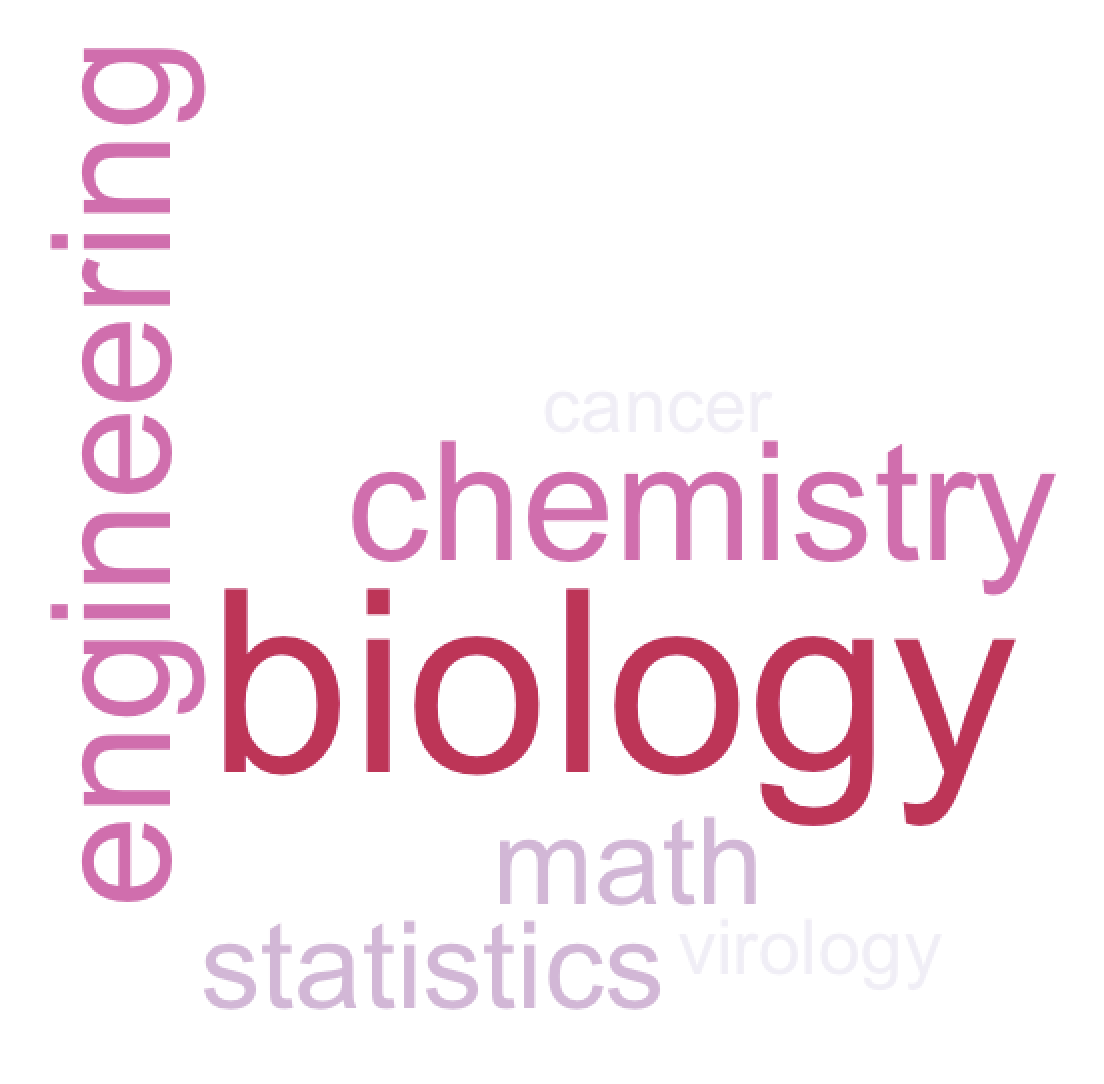
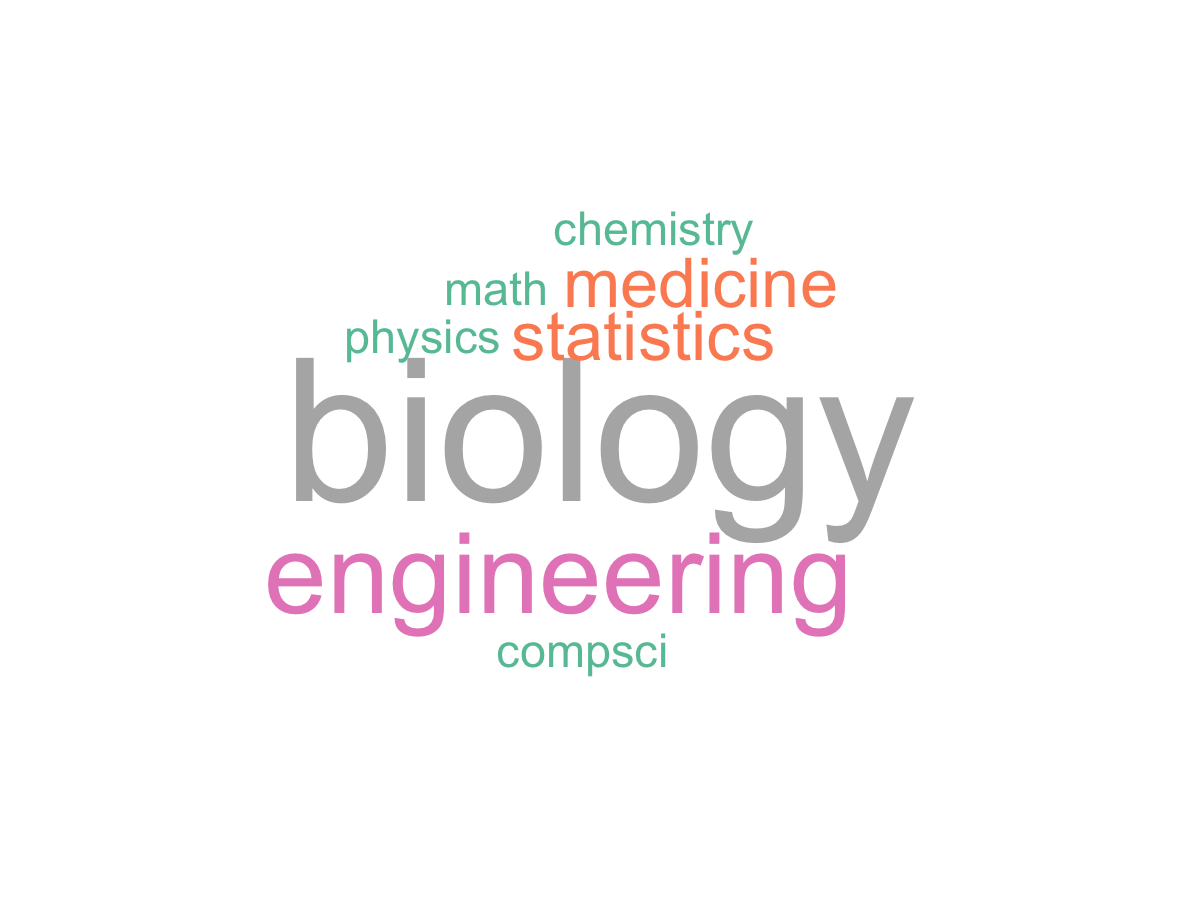
wordcloud code for el zoominario

Changed region(s): [[0.0308, 0.0311, 0.9547, 0.84], [0.1848, 0.7467, 0.7083, 0.9333]]

diff --git a/pages/zoominario.md b/pages/zoominario.md
@@ -8,24 +8,23 @@ description: El Zoominario
 It is a seminar series of scientific short talks (in English) given by Latinx in STEM. The goal is to increase visibility of Latinx people in STEM and inspire the next generation of Latinx scientists. The talks are meant to be accessible to the general audience.
 
 **What is the format of the talks?**
-The talks are 15-20 minutes long of a scientific topic explained in accessible terms to a broad audience. At the end of the talk, the speaker chooses to share interesting facts about their Latinx culture
+The talks are 15-20 minutes long of a scientific topic explained in accessible terms to a broad audience. At the end of the talk, the speaker chooses to share interesting facts about their Latinx culture.
 
 **How can I watch?**
-Currently, live attendance is restricted to people at UW-Madison and close collaborators. Anybody can watch the recorded talks in the [youtube channel](https://www.youtube.com/playlist?list=PL1AfUDnwvYbOA9rfrvyA2nR9SR0VYbklx)
+Currently, live attendance is restricted to people at UW-Madison and close collaborators. Anybody can watch the recorded talks in the [youtube channel](https://www.youtube.com/playlist?list=PL1AfUDnwvYbOA9rfrvyA2nR9SR0VYbklx).
 
 **I am at UW-Madison, how can I watch the talks live?**
-You need to join the UW google group "el-zoominario" (or email me) to be added to the mailing list. Emails to the group will contain login information
+You need to join the UW google group "el-zoominario" (or email me) to be added to the mailing list. Emails to the group will contain login information.
 
 **Why are the youtube comments disabled?**
-Currently, we do not have the manpower to guarantee that all comments will be polite, respectful and family-friendly. Since we want to make these talks accessible to any audience, we prefer to block comments for now
+Currently, we do not have the time to guarantee that all comments will be polite, respectful and family-friendly. Since we want to make these talks accessible to any audience, we prefer to block comments for now.
 
 **I want to give a talk or nominate someone to give a talk?**
-Great! Please fill out [this google form](https://forms.gle/1kpZE1XrKe9YS9cHA)
+Great! Please fill out [this google form](https://forms.gle/1kpZE1XrKe9YS9cHA).
 
 ### Talks topics and countries
 <div class="image123">
-    <img src="../assets/pics/topics.png" width="150">
-    <img src="../assets/pics/countries.png" width="200">
+    <img src="../assets/pics/zoominario-wordcloud.png" width="150">
 </div>
 
 ### Schedule
